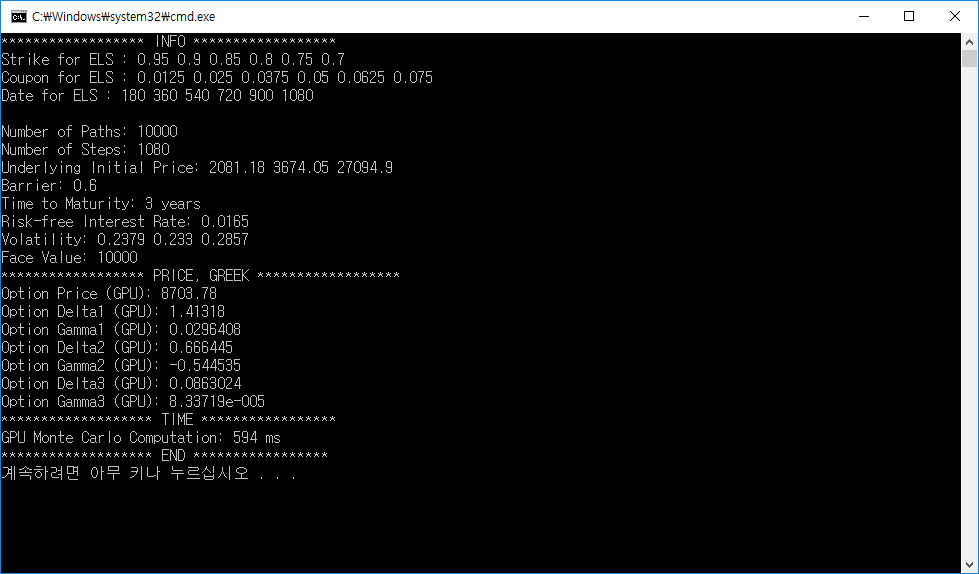
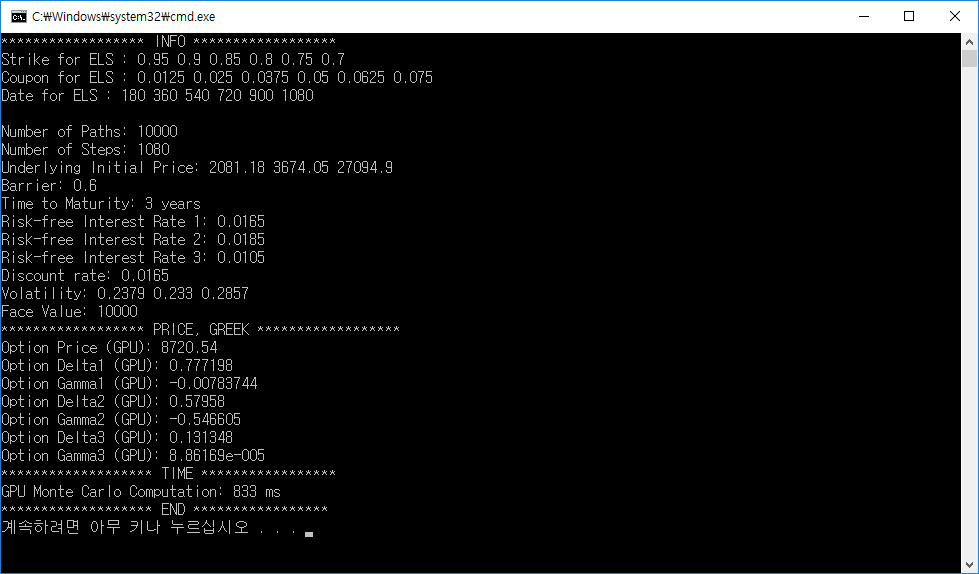
Three-asset ELS

Changed region(s): [[0.0, 0.3554, 0.2758, 0.9181]]

diff --git a/three-asset ELS/code/main.cpp b/three-asset ELS/code/main.cpp
@@ -25,7 +25,10 @@ int main() {
 		const double S0_1 = 2081.18; const double S0_2 = 3674.05; const double S0_3 = 27094.93;
 		const double sig1 = 0.2379; const double sig2 = 0.2330; const double sig3 = 0.2857;
 		
-		const double r = 0.0165;
+		const double r1 = 0.0165;
+		const double r2 = 0.0185;
+		const double r3 = 0.0105;
+		const double discr = 0.0165;
 		const double dummy = 0.075;
 
 		// this exmample set 6 observation dates.
@@ -89,15 +92,15 @@ int main() {
 
 		d_normals.~dev_matrix(); chol.~dev_matrix(); // destruct unnecessary array for memory space
 
-		optionData o1(S0_1, S0_1, r, T, sig1, dt, sqrdt, B, dummy);  // zero tick
-		optionData o2(S0_2, S0_2, r, T, sig2, dt, sqrdt, B, dummy);
-		optionData o3(S0_3, S0_3, r, T, sig3, dt, sqrdt, B, dummy);
-		optionData o4(S0_1 * (1.0 + 0.5*diff), S0_1, r, T, sig1, dt, sqrdt, B, dummy); // up tick
-		optionData o5(S0_2 * (1.0 + 0.5*diff), S0_2, r, T, sig2, dt, sqrdt, B, dummy);
-		optionData o6(S0_3 * (1.0 + 0.5*diff), S0_3, r, T, sig3, dt, sqrdt, B, dummy);
-		optionData o7(S0_1 * (1.0 - 0.5*diff), S0_1, r, T, sig1, dt, sqrdt, B, dummy); // down tick
-		optionData o8(S0_2 * (1.0 - 0.5*diff), S0_2, r, T, sig2, dt, sqrdt, B, dummy);
-		optionData o9(S0_3 * (1.0 - 0.5*diff), S0_3, r, T, sig3, dt, sqrdt, B, dummy);
+		optionData o1(S0_1, S0_1, r1, discr, T, sig1, dt, sqrdt, B, dummy);  // zero tick
+		optionData o2(S0_2, S0_2, r2, discr, T, sig2, dt, sqrdt, B, dummy);
+		optionData o3(S0_3, S0_3, r3, discr, T, sig3, dt, sqrdt, B, dummy);
+		optionData o4(S0_1 * (1.0 + 0.5*diff), S0_1, r1, discr, T, sig1, dt, sqrdt, B, dummy); // up tick
+		optionData o5(S0_2 * (1.0 + 0.5*diff), S0_2, r2, discr, T, sig2, dt, sqrdt, B, dummy);
+		optionData o6(S0_3 * (1.0 + 0.5*diff), S0_3, r3, discr, T, sig3, dt, sqrdt, B, dummy);
+		optionData o7(S0_1 * (1.0 - 0.5*diff), S0_1, r1, discr, T, sig1, dt, sqrdt, B, dummy); // down tick
+		optionData o8(S0_2 * (1.0 - 0.5*diff), S0_2, r2, discr, T, sig2, dt, sqrdt, B, dummy);
+		optionData o9(S0_3 * (1.0 - 0.5*diff), S0_3, r3, discr, T, sig3, dt, sqrdt, B, dummy);
 
 		// make a book
 		optionData book[] = { o1, o2, o3, o4, o5, o6, o7, o8, o9 };
@@ -187,7 +190,10 @@ int main() {
 		cout << "Underlying Initial Price: " << S0_1 << " " << S0_2 << " " << S0_3 << "\n";
 		cout << "Barrier: " << B << "\n";
 		cout << "Time to Maturity: " << T << " years\n";
-		cout << "Risk-free Interest Rate: " << r << "\n";
+		cout << "Risk-free Interest Rate 1: " << r1 << "\n";
+		cout << "Risk-free Interest Rate 2: " << r2 << "\n";
+		cout << "Risk-free Interest Rate 3: " << r3 << "\n";
+		cout << "Discount rate: " << discr << "\n";
 		cout << "Volatility: " << sig1 << " " << sig2 << " " << sig3 << "\n";
 		cout << "Face Value: " << 10000 << "\n";
 		cout << "****************** PRICE, GREEK ******************\n";

diff --git a/three-asset ELS/code/kernel.h b/three-asset ELS/code/kernel.h
@@ -9,6 +9,7 @@ typedef struct optionData
 	double S0;
 	double S0_ref;
 	double r;
+	double discr;
 	double T;
 	double sigma;
 	double dt;
@@ -21,6 +22,7 @@ typedef struct optionData
 	optionData(double _S0,
 		double _S0_ref,
 		double _r,
+		double _discr,
 		double _T,
 		double _sigma,
 		double _dt,
@@ -28,7 +30,8 @@ typedef struct optionData
 		double _B,
 		double _dummy)
 	{
-		S0 = _S0; S0_ref = _S0_ref; r = _r; T = _T;
+		S0 = _S0; S0_ref = _S0_ref; r = _r;
+		discr = _discr; T = _T;
 		sigma = _sigma; dt = _dt;
 		sqrdt = _sqrdt;
 		B = _B; dummy = _dummy;
